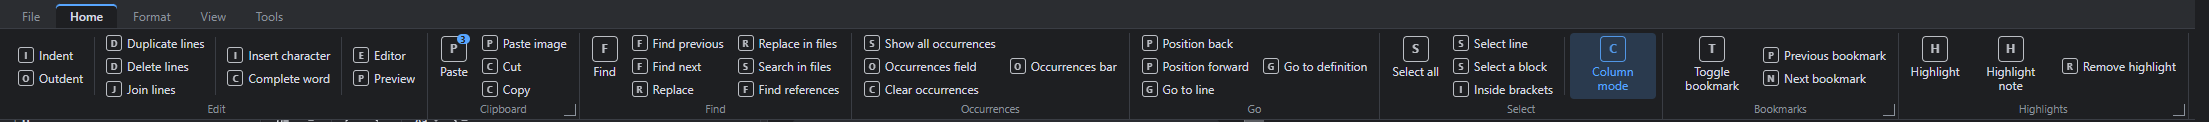
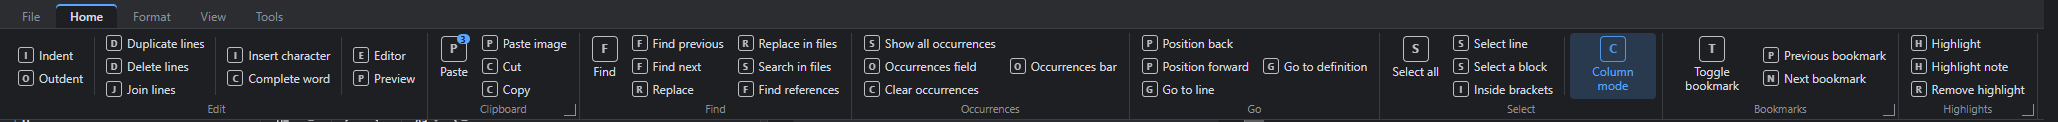
Plan 39: Highlight, Highlight note and Remove highlight stacked; Home measured again (2038 px)
Claude-Session: https://claude.ai/code/session_011ip4AMjLGVDRBeh8bEWE2k

diff --git a/docs/plans/39-PLAN-ribbon.md b/docs/plans/39-PLAN-ribbon.md
@@ -45,7 +45,7 @@ divider. "Corner": the action of the group's corner icon.
 | Go | Position back + Position forward + Go to line / Go to definition |
 | Select | Select all (large) / Select line + Select a block + Select inside brackets / divider / Column mode (large, a toggle) |
 | Bookmarks | Toggle unnumbered bookmark (large) / Previous bookmark + Next bookmark. Corner: Manage bookmarks |
-| Highlights | Highlight (large) / Highlight note (large) / Remove highlight. Corner: Highlights window |
+| Highlights | Highlight + Highlight note + Remove highlight. Corner: Highlights window |
 
 **Format**
 
@@ -78,8 +78,8 @@ divider. "Corner": the action of the group's corner icon.
   tabs and files, as a browser) are in the menus and keys, not on the ribbon.
 - **Day / Night**: the two values of Day / night, each its own button, the current one pressed.
 - **Width**, measured in a mock (a test copy, LexPen's own font and the Dark theme, group names on, a 1264 px wide
-  window): File 233 px, Home 2189 px, Format 257 px, View 712 px, Tools 779 px. Home's groups: Edit 422, Clipboard
-  152, Find 273, Occurrences 277, Go 251, Select 283, Bookmarks 236, Highlights 290; the ribbon 120 px high with its
+  window): File 233 px, Home 2038 px, Format 257 px, View 712 px, Tools 779 px. Home's groups: Edit 422, Clipboard
+  152, Find 273, Occurrences 277, Go 251, Select 283, Bookmarks 236, Highlights 139; the ribbon 120 px high with its
   tabs. Home does not fit that window (question 1).
 
 The mock, per tab (the icons are placeholders: a box with the label's first letter; the corner icon at the bottom
@@ -171,7 +171,7 @@ right of Clipboard, Bookmarks, Highlights and Sort):
 
 ## 4. Open questions
 
-1. Home is wider than a 1264 px window (2189 px in the mock): split it into two tabs (for instance Home: Edit,
+1. Home is wider than a 1264 px window (2038 px in the mock): split it into two tabs (for instance Home: Edit,
    Clipboard, Find, Occurrences; and Navigate: Go, Select, Bookmarks, Highlights), make more of its large buttons small (Select
-   all, Toggle bookmark, Highlight, Highlight note), or keep it and let the right end go into the ">>" menu?
+   all, Toggle bookmark), or keep it and let the right end go into the ">>" menu?
 2. History (Undo, Redo) on Format, as now, or on Home, where the actions used most are?
